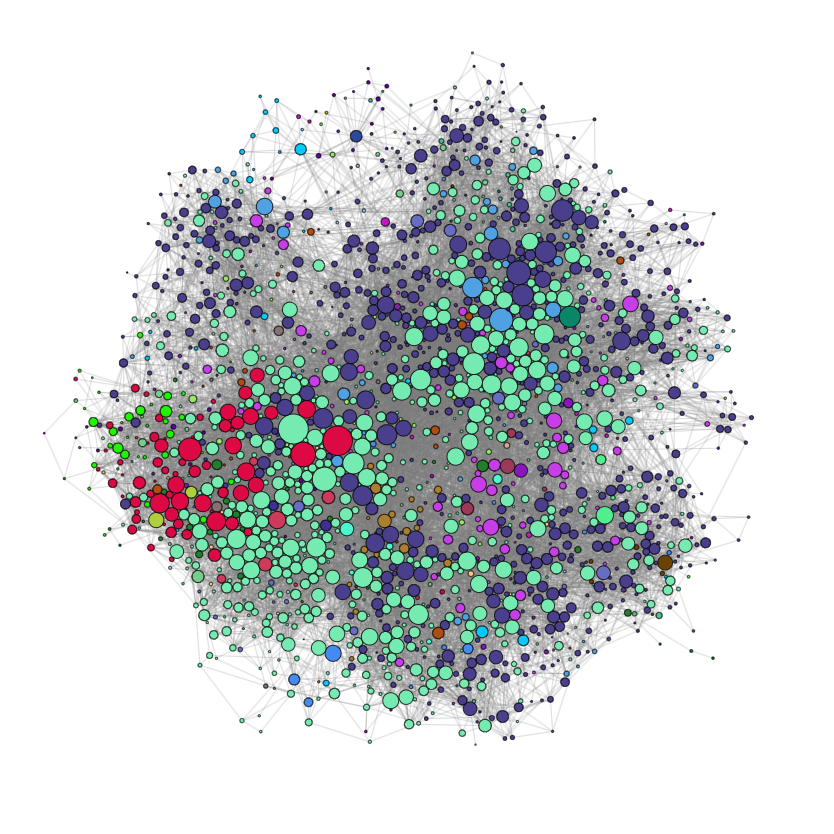
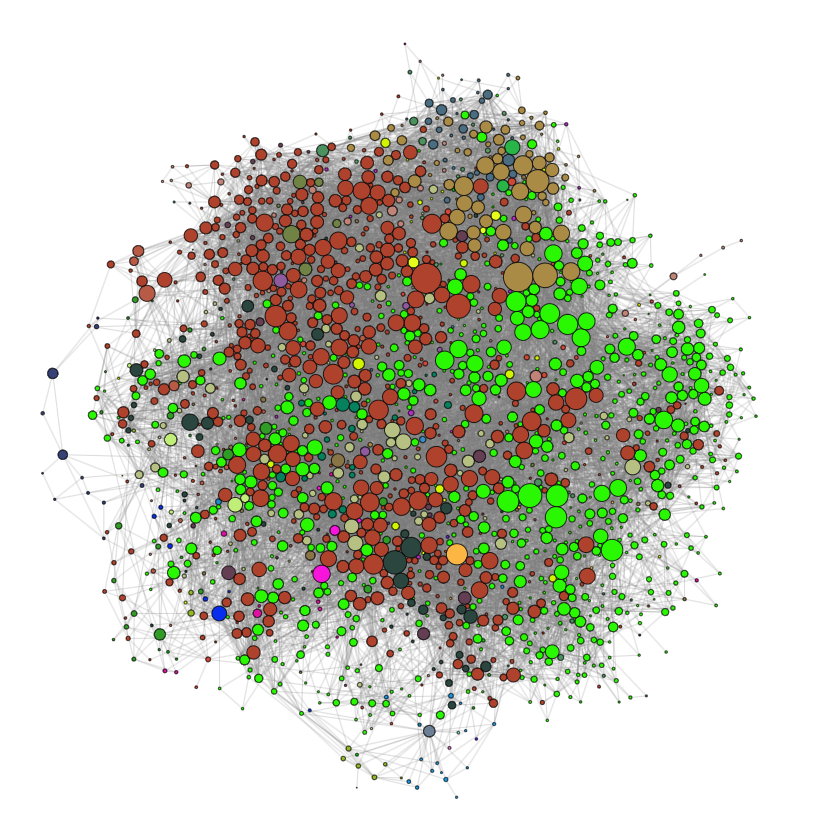
deploy: fc4277d84a4e8ce7bce4bddddf26803ec4ca18d7

diff --git a/index.html b/index.html
@@ -101,9 +101,11 @@ which has been scraped from the web. The dataset contains articles from several 
 <img src=./images/reuters_top_5_sections.png alt=drawing width=600><br></br><img src=./images/nyt_top_5_sections.png alt=drawing width=600></p><p>We see that both publications have world news and business in their top sections but otherwise they are different in name at least. It turns out that some sections concern the same subject but are named differently as we shall see later.</p><p>See the <a href=data-description>data</a> page for more details about the dataset.</p><h1 id=networks><strong>Networks</strong></h1><p>Using the processed data we constructed an undirected and unweighted collaboration graph for each of the two news agencies.
 In the graph, each node represents an author and an edge between two nodes represents a collaboration between the two authors.
 We chose to look at the largest connected component of each graph, as very few nodes were disconnected from the main component.</p><p>The graphs were partitioned using the section feature of the articles, by assigning each node a community based on the section in which the author has written the most articles. Nodes with the same colours are authors with the same section.</p><p>The NYT network:
-<img src=./images/nyt2.png alt></p><p>The NYT network shows that there are two major components: the larger one with several sections, and a smaller one to the left with only authors of the same section. The nodes in the smaller component are all authors from the movie section and shows how they very rarely collaborate with authors outside of their own section.
+<img src=./images/nyt2.png alt>
+<img src=./images/nyt_legend.png alt></p><p>The NYT network shows that there are two major components: the larger one with several sections, and a smaller one to the left with only authors of the same section. The nodes in the smaller component are all authors from the movie section and shows how they very rarely collaborate with authors outside of their own section.
 The larger component is more mixed but it&rsquo;s still clear that authors from the same section are grouped together.</p><p>The Reuters network:
 <img src=./images/reuters2.png alt>
+<img src=./images/reuters_legend.png alt>
 The reuters network is way more mixed showing that authors are more likely to collaborate with other authors from different sections but there are still clear tendencies such the red nodes being exclusively on left half of the graph.</p><p>These visual interpretations are backed up by looking at the modularity with regards to section</p><img src=./images/the_new_york_times_graph_mod.png alt=drawing width=600><br></br><img src=./images/reuters_graph_mod.png alt=drawing width=600><p>These graphs show us that the section modularity is about 0.5 for the NYT but only around 0.2 for Reuters. However, both of these modularities are significantly higher than the modularities of the randomization experiments with the double edge swap algorithm. These results confirm that authors from both publications are more likely to write with authors from the same section and that this is more so the case for the NYT than Reuters.
 See the <a href=network-analysis>network</a> for more details.</p><h1 id=text-analysis><strong>Text analysis</strong></h1><p>For the text analysis, we started with looking at word clouds generated with tf-idf for each section of the two publications.
 Since we wanted to compare how the publications portray the same subject, we looked for the sections which were mostly related with the 2016 US presidential election as we expected this to be the subject of numerous articles due to the time period in which the dataset was currated.
